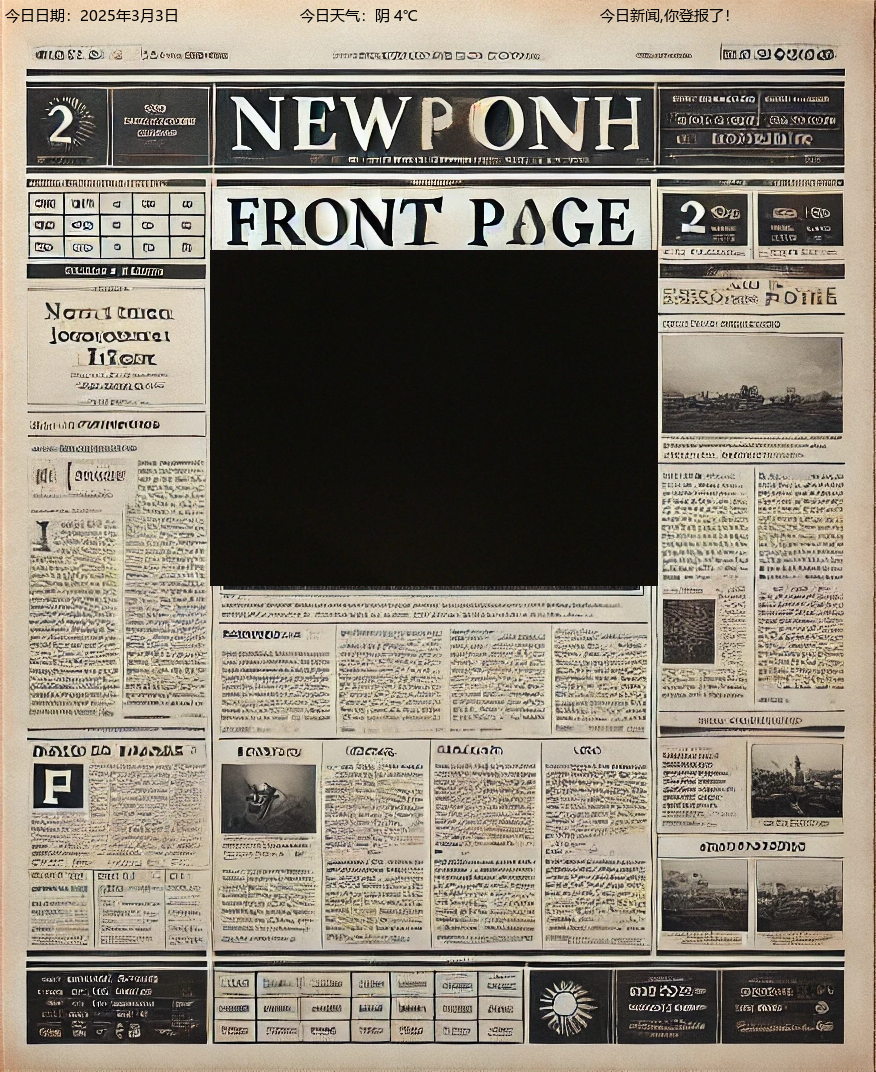
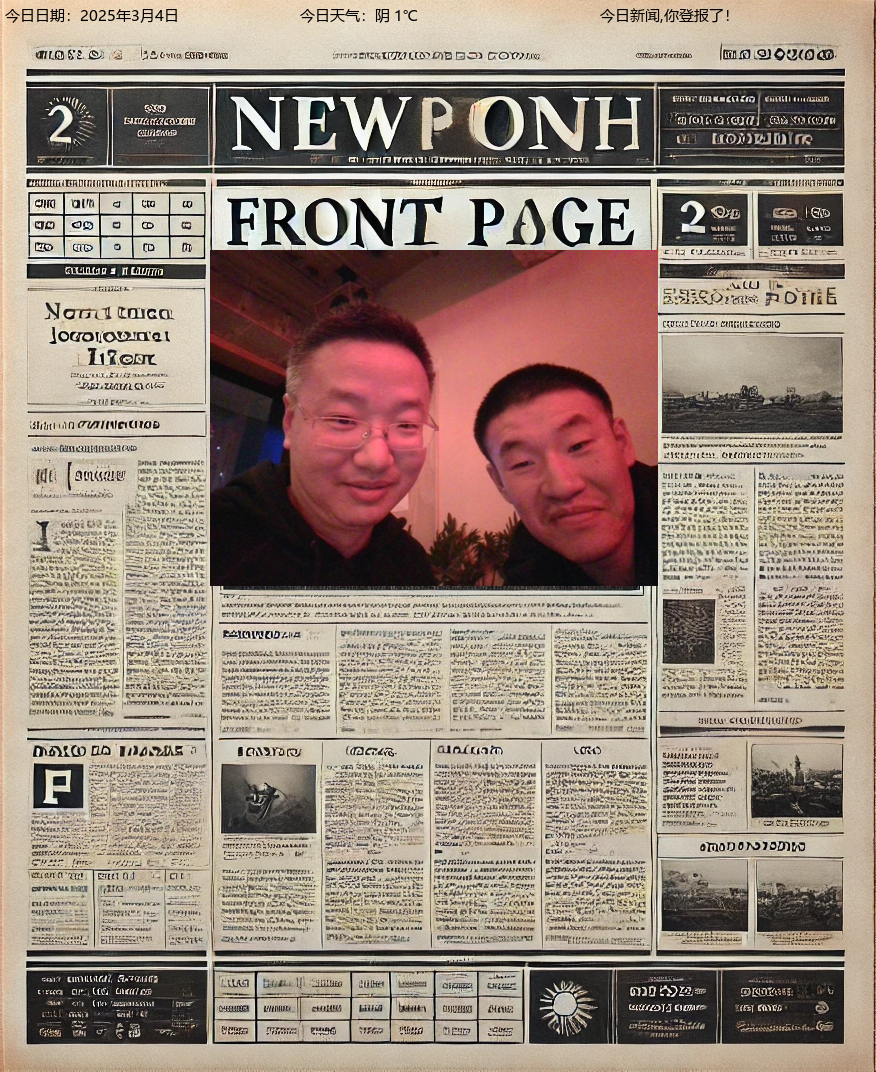
add a gui and test by TingTing and Woodyblock

Changed region(s): [[0.2158, 0.2155, 0.7705, 0.5541]]

diff --git a/main_gui.py b/main_gui.py
@@ -1,0 +1,214 @@
+import tkinter as tk
+import cv2
+import PIL
+from PIL import Image, ImageTk
+import os
+import json
+import requests
+from datetime import datetime, timedelta
+from PIL import ImageDraw, ImageFont
+
+# ========== 以下是你已有的一些方法，可直接拷贝过来使用 ========== #
+WEATHER_API_KEY = "key" # 你的高德地图天气API Key
+WEATHER_CITY = "210202"
+LOCAL_WEATHER_JSON = "resource/weather_result.json"
+
+TEMPLATE_PATH = "resource/newspaper_template.png"
+FONT_PATH = "resource/msyh.ttc"  # 如果有别的路径，请自行改写
+
+def extract_weather_str(data_dict):
+    """
+    从接口或本地json数据中提取并拼接成 “晴 18℃” 形式
+    """
+    lives = data_dict.get("lives", [])
+    if not lives:
+        return "未知天气"
+    weather_desc = lives[0].get("weather", "未知")
+    temperature = lives[0].get("temperature","0")
+    return f"{weather_desc} {temperature}℃"
+
+def get_weather_info():
+    """
+    获取天气信息，逻辑与之前相同
+    """
+    local_data = None
+    if os.path.exists(LOCAL_WEATHER_JSON):
+        try:
+            with open(LOCAL_WEATHER_JSON, "r", encoding="utf-8") as f:
+                local_data = json.load(f)
+        except Exception as e:
+            print("读取本地 weather_result.json 失败：", e)
+            local_data = None
+
+    if local_data:
+        try:
+            lives_info = local_data["lives"][0]
+            report_time_str = lives_info["reporttime"]  # "2025-02-27 14:02:16"
+            report_time = datetime.strptime(report_time_str, "%Y-%m-%d %H:%M:%S")
+            if datetime.now() - report_time <= timedelta(hours=1):
+                print("本地天气数据未超过1小时，直接使用本地数据。")
+                return extract_weather_str(local_data)
+            else:
+                print("本地天气数据超过1小时，调用API更新。")
+        except Exception as e:
+            print("解析本地天气数据时出现异常，调用API更新:", e)
+    else:
+        print("未找到本地 weather_result.json，调用API获取最新数据。")
+
+    url = f"https://restapi.amap.com/v3/weather/weatherInfo?city={WEATHER_CITY}&key={WEATHER_API_KEY}"
+    try:
+        response = requests.get(url, timeout=5)
+        if response.status_code == 200:
+            data = response.json()
+            if data.get("status") == "1" and "lives" in data and len(data["lives"]) > 0:
+                with open(LOCAL_WEATHER_JSON, "w", encoding="utf-8") as f:
+                    json.dump(data, f, ensure_ascii=False, indent=4)
+                return extract_weather_str(data)
+            else:
+                print("API返回数据异常，无法提取有效天气信息:", data)
+                return "晴 25℃"
+        else:
+            print("API请求失败，status_code:", response.status_code)
+            return "晴 25℃"
+    except Exception as e:
+        print("请求天气API出现错误:", e)
+        return "晴 25℃"
+
+def create_newspaper_image(photo_path, weather_str, output_path="final_newspaper.png"):
+    """
+    合成最终的报纸图片
+    """
+    template = Image.open(TEMPLATE_PATH).convert("RGB")
+    draw = ImageDraw.Draw(template)
+    user_photo = Image.open(photo_path).convert("RGB")
+
+    # 根据模板中用户照片需要的大小进行 resize
+    user_photo = user_photo.resize((448, 336))
+
+    # 将照片粘贴到模板上的指定位置 (需根据模板实际情况设置)
+    template.paste(user_photo, (210, 250))  # 假定 (210,250)
+
+    # 设置字体
+    if FONT_PATH and os.path.exists(FONT_PATH):
+        font = ImageFont.truetype(FONT_PATH, 15)
+    else:
+        font = ImageFont.load_default()
+
+    now_date = datetime.now()
+    date_str = f"{now_date.year}年{now_date.month}月{now_date.day}日"
+
+    # 左上角写日期和天气等文字
+    draw.text((5, 5), f"今日日期：{date_str}", font=font, fill=(0, 0, 0))
+    draw.text((300, 5), f"今日天气：{weather_str}", font=font, fill=(0, 0, 0))
+    draw.text((600, 5), "今日新闻,你登报了！", font=font, fill=(0, 0, 0))
+
+    template.save(output_path)
+    print(f"报纸图片已生成：{output_path}")
+    return output_path
+# ========== 以上是已有方法 ========== #
+
+
+class NewspaperApp:
+    def __init__(self, root):
+        self.root = root
+        self.root.title("今日登报 Demo")
+
+        # 窗口大小可根据模板大小来定
+        self.WIN_WIDTH = 876
+        self.WIN_HEIGHT = 1072
+        # 或者根据模板图实际大小，这里先写死
+        self.root.geometry(f"{self.WIN_WIDTH}x{self.WIN_HEIGHT}")
+
+        # 打开摄像头
+        self.cap = cv2.VideoCapture(0)
+        if not self.cap.isOpened():
+            print("无法打开摄像头！")
+            # 也可以弹个提示后退出
+            return
+
+        # 读取模板图并转换成Tkinter可用的图像
+        self.background_image = Image.open(TEMPLATE_PATH).convert("RGB")
+        self.bg_tk = ImageTk.PhotoImage(self.background_image)
+
+        # 用 Label 来承载整个背景图
+        self.bg_label = tk.Label(self.root, image=self.bg_tk)
+        self.bg_label.place(x=0, y=0, width=self.WIN_WIDTH, height=self.WIN_HEIGHT)
+
+        # 摄像头在模板中的“照片区域”大小（根据你的需求设置）
+        self.cam_width = 448
+        self.cam_height = 336
+        # 摄像头在背景中的位置（即贴图位置）
+        self.cam_pos_x = 210
+        self.cam_pos_y = 250
+
+        # 在背景上叠加一个 Label，用来显示摄像头实时画面
+        self.cam_label = tk.Label(self.bg_label)
+        self.cam_label.place(x=self.cam_pos_x, y=self.cam_pos_y, width=self.cam_width, height=self.cam_height)
+
+        # 定义两个按钮——“拍照”、“退出”
+        self.btn_capture = tk.Button(self.root, text="拍照", command=self.capture_photo)
+        self.btn_capture.place(x=400, y=10, width=80, height=30)
+
+        self.btn_exit = tk.Button(self.root, text="退出", command=self.exit_app)
+        self.btn_exit.place(x=500, y=10, width=80, height=30)
+
+        # 天气信息（可提前获取并显示）
+        self.weather_str = get_weather_info()
+        # 这里简单地在窗口标题栏显示天气，可自行修改
+        self.root.title(f"今日登报 - 天气：{self.weather_str}")
+
+        # 启动循环更新摄像头画面
+        self.update_frame()
+
+    def update_frame(self):
+        """
+        从摄像头读取一帧，转换后显示到 cam_label 上
+        """
+        ret, frame = self.cap.read()
+        if ret:
+            # 转为 RGB 并resize到指定尺寸
+            frame = cv2.cvtColor(frame, cv2.COLOR_BGR2RGB)
+            frame = cv2.resize(frame, (self.cam_width, self.cam_height))
+            # 转为 Pillow 图像
+            img = Image.fromarray(frame)
+            # 转为 Tkinter 可显示的图像
+            imgtk = ImageTk.PhotoImage(image=img)
+            # 显示到 cam_label
+            self.cam_label.imgtk = imgtk
+            self.cam_label.configure(image=imgtk)
+
+        # after(延迟毫秒数, 函数)——递归调用自己，实现实时刷新
+        self.root.after(30, self.update_frame)
+
+    def capture_photo(self):
+        """
+        拍照函数：保存当前帧为文件，然后调用create_newspaper_image()
+        """
+        ret, frame = self.cap.read()
+        if ret:
+            # 保存当前帧
+            photo_path = "captured.jpg"
+            cv2.imwrite(photo_path, frame)
+            print(f"拍照成功, 保存到 {photo_path}")
+            
+            # 生成报纸图片
+            final_path = create_newspaper_image(photo_path, self.weather_str)
+            print("最终报纸图片：", final_path)
+            # 可以在这里弹窗提示用户，或者直接弹出一个新窗口显示 final_path
+
+    def exit_app(self):
+        """
+        退出应用
+        """
+        if self.cap.isOpened():
+            self.cap.release()
+        self.root.destroy()
+
+
+def main():
+    root = tk.Tk()
+    app = NewspaperApp(root)
+    root.mainloop()
+
+if __name__ == "__main__":
+    main()
